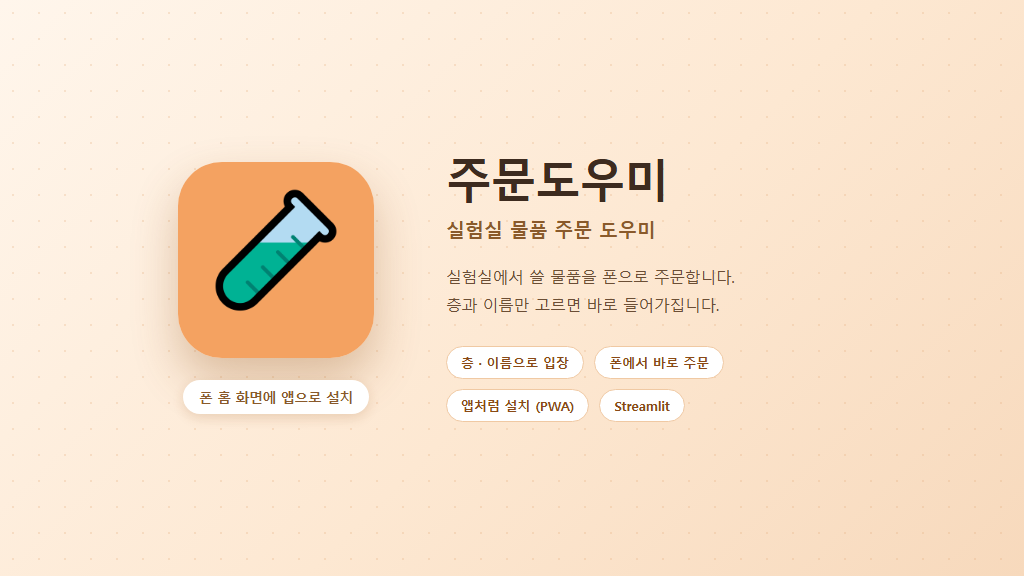
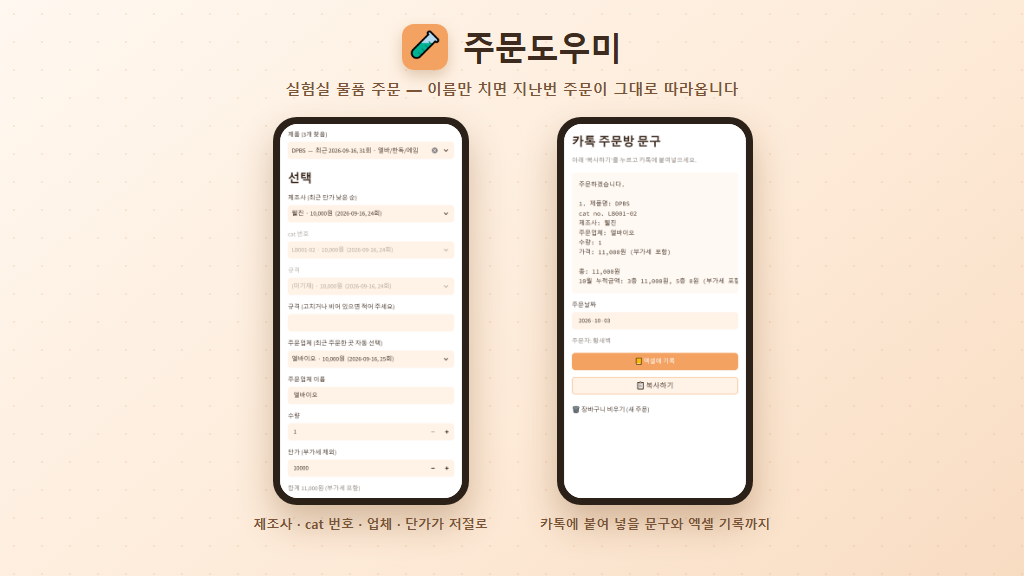
feat: 주문도우미 — 앱 안을 보고 글과 썸네일을 다시 썼다
공용 비밀번호를 받아 실제로 들어가 보니, 설치 페이지만 보고 쓴
"폰으로 주문하는 앱" 은 이 도구가 하는 일의 절반도 아니었다.

- 제품 이름만 치면 지난 주문에서 제조사·cat 번호·규격·업체·단가가
  따라온다. 제조사는 최근 단가가 싼 순으로 늘어놓는다
- 카톡 주문방에 붙여 넣을 문구를 만들어 주고, 층별 월 누적금액까지
  같이 붙인다
- 엑셀 장부 기록과, 입고 날짜가 빈 물품만 모아 보는 입고 체크

썸네일도 실제 화면 둘로 바꿨다. 주문자 목록은 실험실 사람들의
실명이라 잘라냈다 — 공개 페이지에 남의 이름을 올릴 일이 아니다.

Claude-Session: https://claude.ai/code/session_0133kr55Mo1BCizYggNfNGzi

diff --git a/content/projects/ordertool.md b/content/projects/ordertool.md
@@ -1,9 +1,9 @@
 ---
 title: 주문도우미 (Order Tool)
 slug: ordertool
-summary: 실험실에서 쓸 물품을 폰으로 주문하는 앱. 계정을 만들 필요 없이 층과 이름만 고르면 들어가고, 홈 화면에 앱처럼 깔립니다.
-tags: [웹앱, PWA, Streamlit, 업무 도구]
-stack: [Streamlit, PWA, GitHub Pages, 서비스 워커]
+summary: 실험실 물품 주문을 폰에서 끝내는 앱. 제품 이름만 치면 지난번에 어디서 얼마에 샀는지가 그대로 따라오고, 카톡 주문방에 붙여 넣을 문구와 엑셀 기록까지 한 번에 만들어 줍니다.
+tags: [웹앱, PWA, Streamlit, 업무 도구, 엑셀 연동]
+stack: [Streamlit, PWA, GitHub Pages, 서비스 워커, Excel]
 date: 2026-10-01
 featured: true
 thumbnail: /img/projects/ordertool.png
@@ -14,23 +14,68 @@ links:
 
 ## 개요
 
-실험실에서는 시약과 소모품이 떨어질 때마다 주문을 넣습니다. 그 일이 늘 **컴퓨터 앞에 앉아야 하는 일**이라는 게 문제였습니다. 떨어진 것을 발견하는 곳은 실험대 앞인데, 적어두는 곳은 자리로 돌아가야 있습니다. 그 사이에 잊어버립니다.
+실험실에서 시약 하나를 주문하려면 매번 같은 것을 다시 찾아야 합니다. **지난번에 어느 회사 제품을 샀더라, cat 번호가 뭐였더라, 어디서 얼마에 샀더라.** 엑셀 파일을 열어 지난 기록을 뒤지고, 찾은 내용을 카톡 주문방 양식에 맞춰 다시 타이핑하고, 주문한 것을 다시 엑셀에 적습니다. 같은 정보를 세 번 옮겨 적는 일입니다.
 
-**주문도우미** 는 그 자리에서 폰으로 바로 적는 앱입니다.
+**주문도우미** 는 그 세 번을 한 번으로 줄입니다. 제품 이름만 치면 나머지는 지난 주문이 알아서 채웁니다.
 
-![주문도우미 — 실험실 물품 주문 도우미](/img/projects/ordertool.png)
+![주문도우미 — 제품을 고르면 지난 주문이 그대로 따라오고, 카톡 문구와 엑셀 기록이 함께 나온다](/img/projects/ordertool.png)
+
+## 이름만 치면 나머지가 따라옵니다
+
+`DPBS` 를 치면 이렇게 나옵니다.
+
+> **DPBS** — 최근 2026-09-16, 31회 · 엘바/한독/에임
+
+이미 31번 주문한 제품이고, 세 군데서 사봤다는 뜻입니다. 고르면 **제조사·cat 번호·규격·주문업체·단가가 전부 채워진 채로** 화면이 열립니다. 손으로 적을 것은 수량 하나뿐입니다.
+
+그냥 채워주기만 하는 게 아니라, **어느 쪽이 나은지도 같이 보여줍니다.**
+
+- **제조사는 최근 단가가 싼 순서로** 늘어놓습니다 — 같은 물건을 비싸게 사는 일을 줄입니다
+- **주문업체는 지난번에 주문한 곳이 먼저** 골라져 있습니다
+- 고를 때마다 `웰진 · 10,000원 (2026-09-16, 24회)` 처럼 **언제 얼마에 몇 번 샀는지**가 붙어 나옵니다
+- 단가를 넣으면 **부가세 포함 합계**가 바로 계산됩니다
+
+처음 사는 물건은 직접 입력으로 넣으면 되고, 그 기록이 다음 사람에게는 또 자동완성이 됩니다.
+
+## 카톡에 붙여 넣을 문구가 그대로 나옵니다
+
+주문은 결국 **카톡 주문방에 글로 올리는 일**입니다. 그 문구를 앱이 만들어 줍니다.
+
+```
+주문하겠습니다.
+
+1. 제품명: DPBS
+cat no. LB001-02
+제조사: 웰진
+주문업체: 엘바이오
+수량: 1
+가격: 11,000원 (부가세 포함)
+
+총: 11,000원
+10월 누적금액: 3층 11,000원, 5층 0원 (부가세 포함)
+```
+
+**복사하기** 를 누르고 붙여 넣으면 끝입니다. 양식을 외울 필요도, 계산기를 두드릴 필요도 없습니다. **이번 달에 층마다 얼마를 썼는지**까지 매번 같이 붙어 나와서, 예산을 따로 세어 볼 일이 없습니다.
+
+## 엑셀 장부는 알아서 채워집니다
+
+**엑셀에 기록** 을 누르면 주문한 내용이 장부에 그대로 들어갑니다. 층, 주문자, 비고처럼 **장부에만 필요하고 카톡 문구에는 들어가면 곤란한 것**은 따로 구분해 두었습니다.
+
+## 들어왔는지 확인하는 것까지
+
+주문하고 나면 다음 숙제가 생깁니다 — **이거 들어왔나?**
+
+**입고 체크** 를 누르면, 주문도우미로 주문한 것 중 **최근 90일 안에 입고 날짜가 비어 있는 물품만** 모여 나옵니다. 택배를 풀면서 들어온 것을 체크하고 맨 아래에서 한 번 확인하면, 엑셀의 입고 날짜가 채워집니다.
 
 ## 계정을 만들지 않습니다
 
-업무용 도구가 외면받는 가장 흔한 이유는 **들어가는 문이 높아서**입니다. 회원가입을 시키고, 비밀번호를 새로 만들게 하고, 그걸 잊어버리면 끝입니다.
+업무용 도구가 외면받는 가장 흔한 이유는 **들어가는 문이 높아서**입니다. 회원가입을 시키고 비밀번호를 새로 만들게 하면, 그걸 잊어버리는 순간 끝입니다.
 
-여기서는 **층과 이름을 고르는 것으로 들어갑니다.** 한 번 들어가고 나면 그 선택을 기억해서, 다음부터는 아이콘만 누르면 바로 주문 화면입니다.
+여기서는 **층을 고르고 이름을 누르면** 들어갑니다. 목록에 없는 사람은 직접 적으면 됩니다. 한 번 들어가고 나면 그 선택을 기억해서, 다음부터는 아이콘만 누르면 바로 주문 화면입니다.
 
 ## 홈 화면에 아이콘으로 깔립니다
 
-본체는 웹앱이지만, 쓰는 사람에게는 **폰에 깔린 앱**으로 보이는 쪽이 낫습니다. 주소를 즐겨찾기에서 찾아 들어가야 하는 물건은 결국 안 쓰게 됩니다.
-
-그래서 설치 전용 페이지를 따로 뒀습니다.
+본체는 웹앱이지만 쓰는 사람에게는 **폰에 깔린 앱**으로 보이는 쪽이 낫습니다. 주소를 즐겨찾기에서 찾아 들어가야 하는 물건은 결국 안 쓰게 됩니다. 그래서 설치 전용 페이지를 따로 뒀습니다.
 
 - **안드로이드** — 화면 위에 뜨는 `📲 핸드폰에 앱으로 깔기` 버튼 한 번
 - **아이폰** — 사파리 공유 → 홈 화면에 추가 (그 자리에 안내 문구가 뜹니다)
@@ -38,6 +83,4 @@ links:
 
 링크를 단톡방에 뿌려서 받는 도구라, 카톡 안에서 열리는 상황이 오히려 기본값입니다. 거기서 한 번 막히면 아무도 설치하지 않습니다.
 
-## 쓰는 곳
-
-이 앱은 **특정 실험실 사람들이 쓰는 도구**입니다. 들어가려면 층과 이름, 그리고 그 실험실에서 공유하는 비밀번호가 필요해서, 바깥에서는 화면을 열어볼 수 없습니다. 위 링크는 **설치 방법을 안내하는 페이지**입니다.
+> 이 앱은 **특정 실험실 사람들이 쓰는 도구**라 공용 비밀번호가 있어야 들어갑니다. 위 링크는 설치 방법을 안내하는 페이지입니다.
